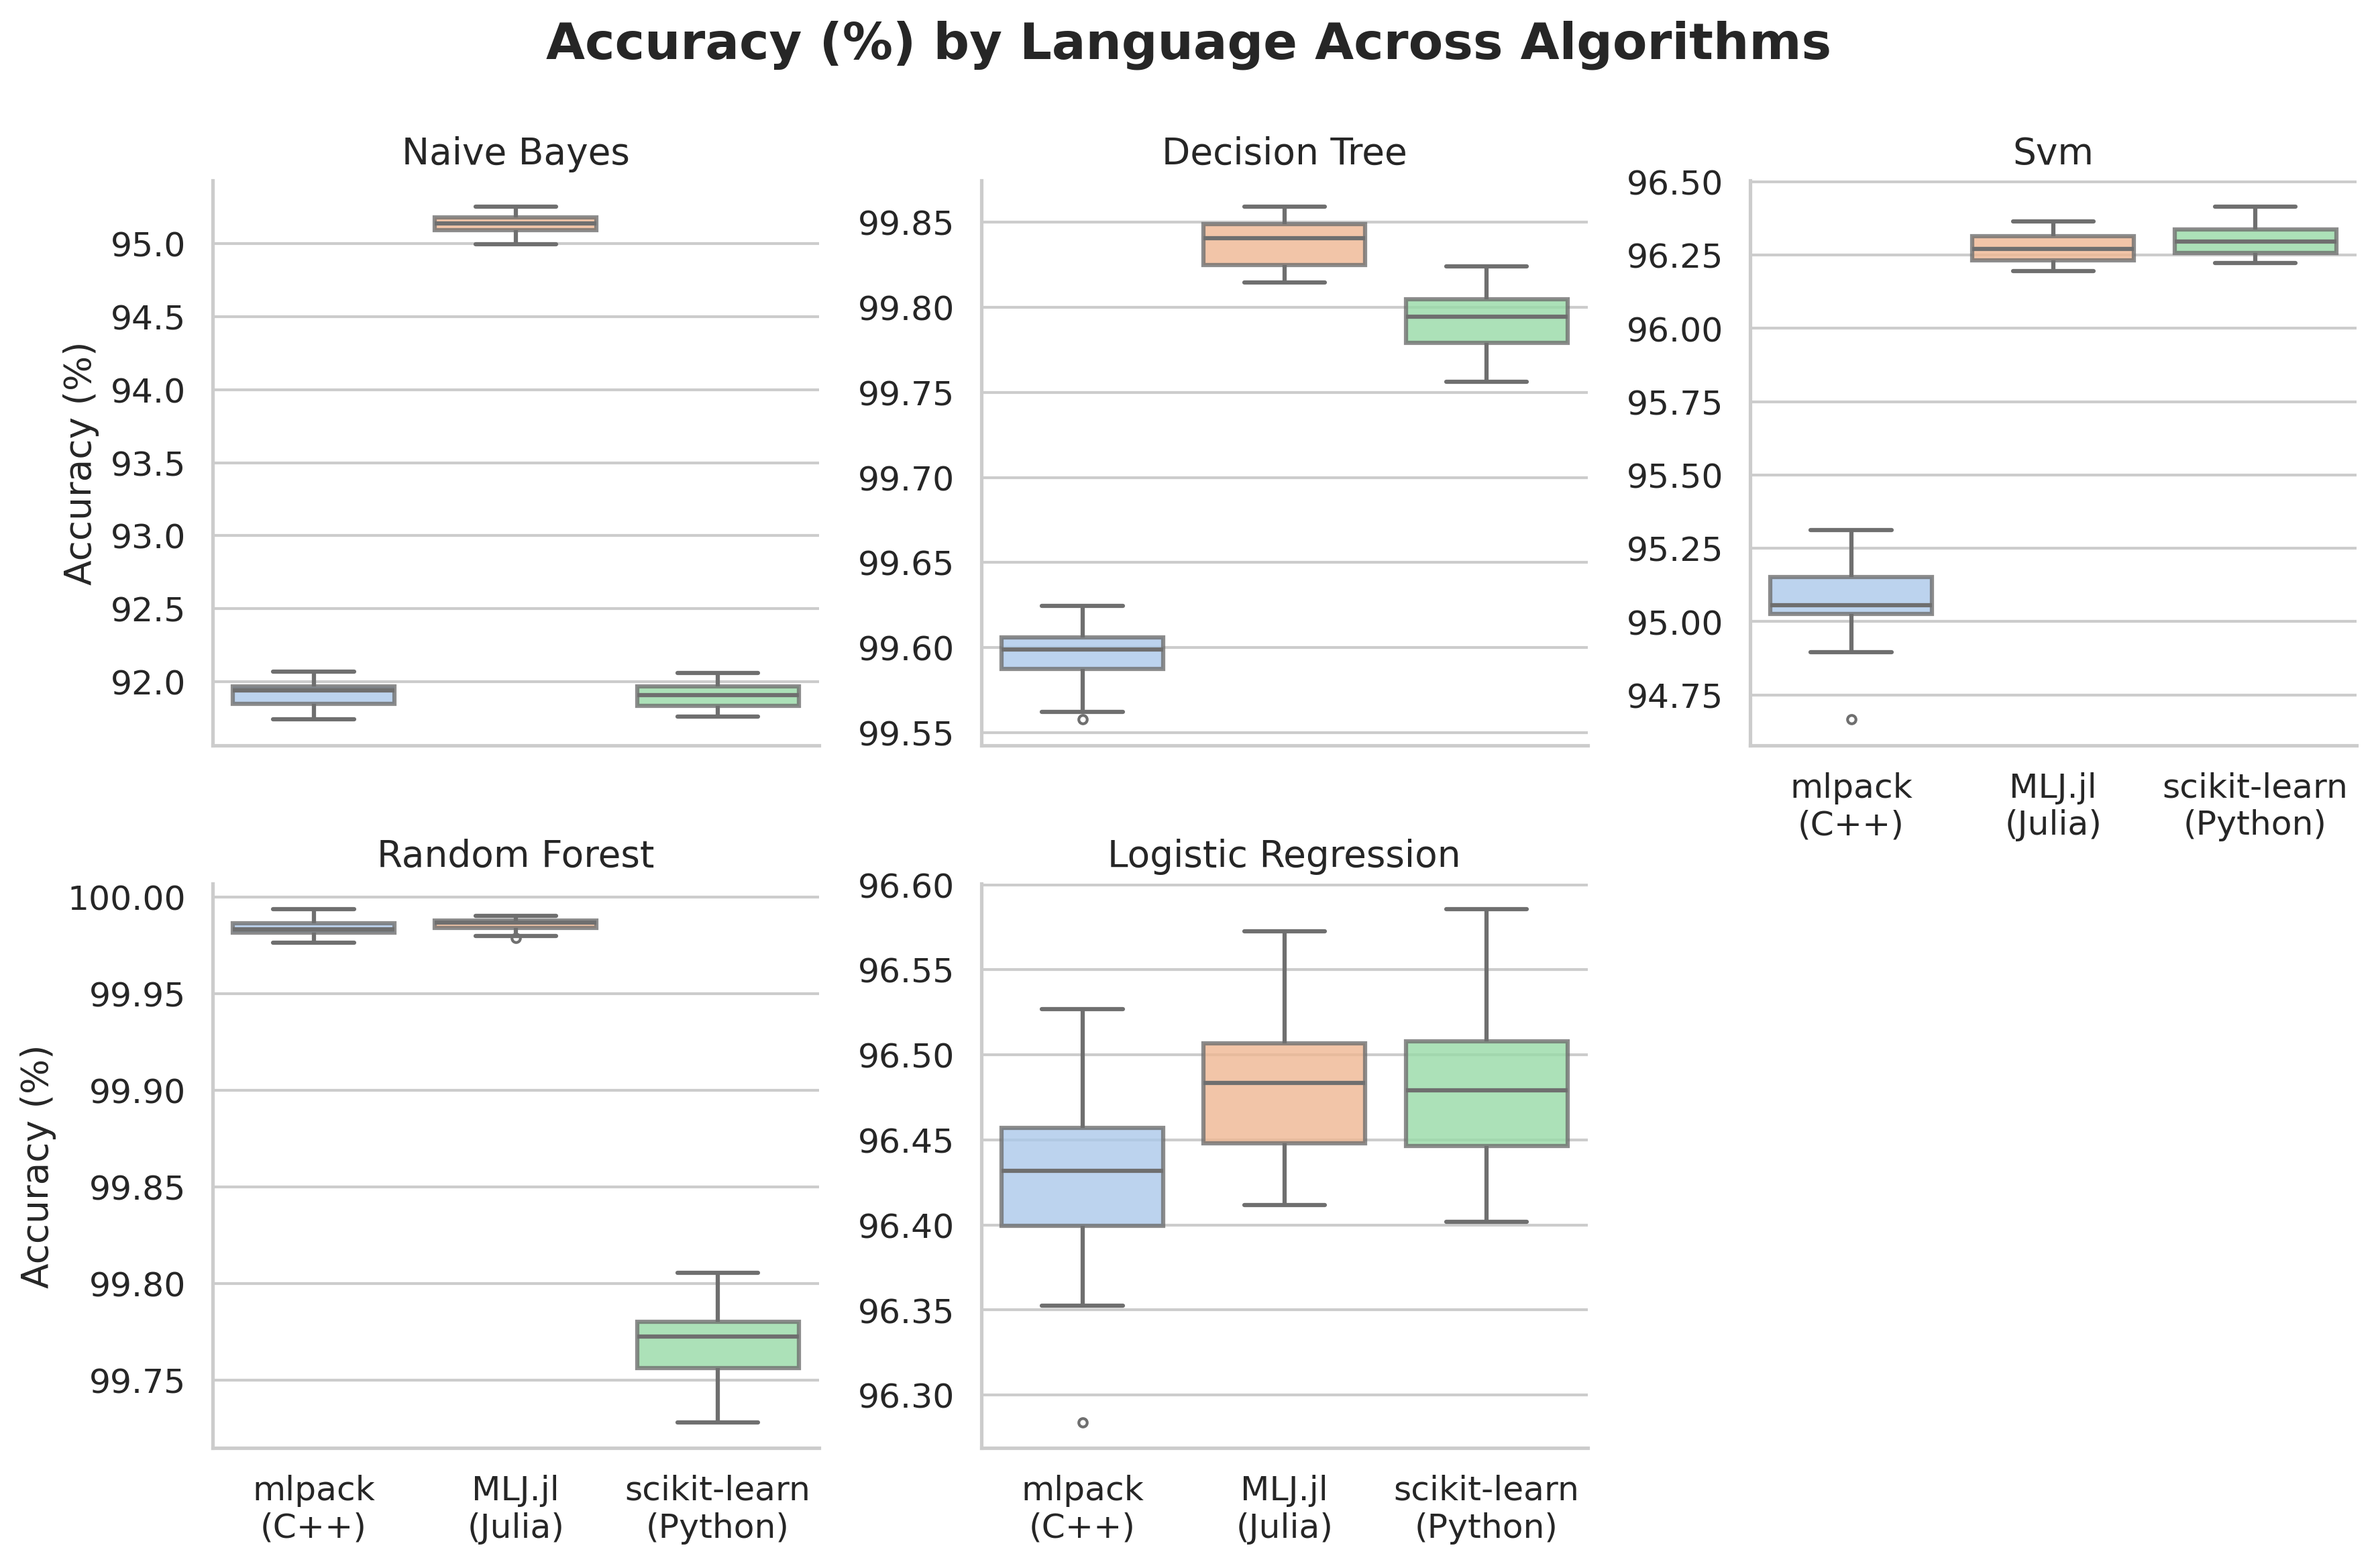
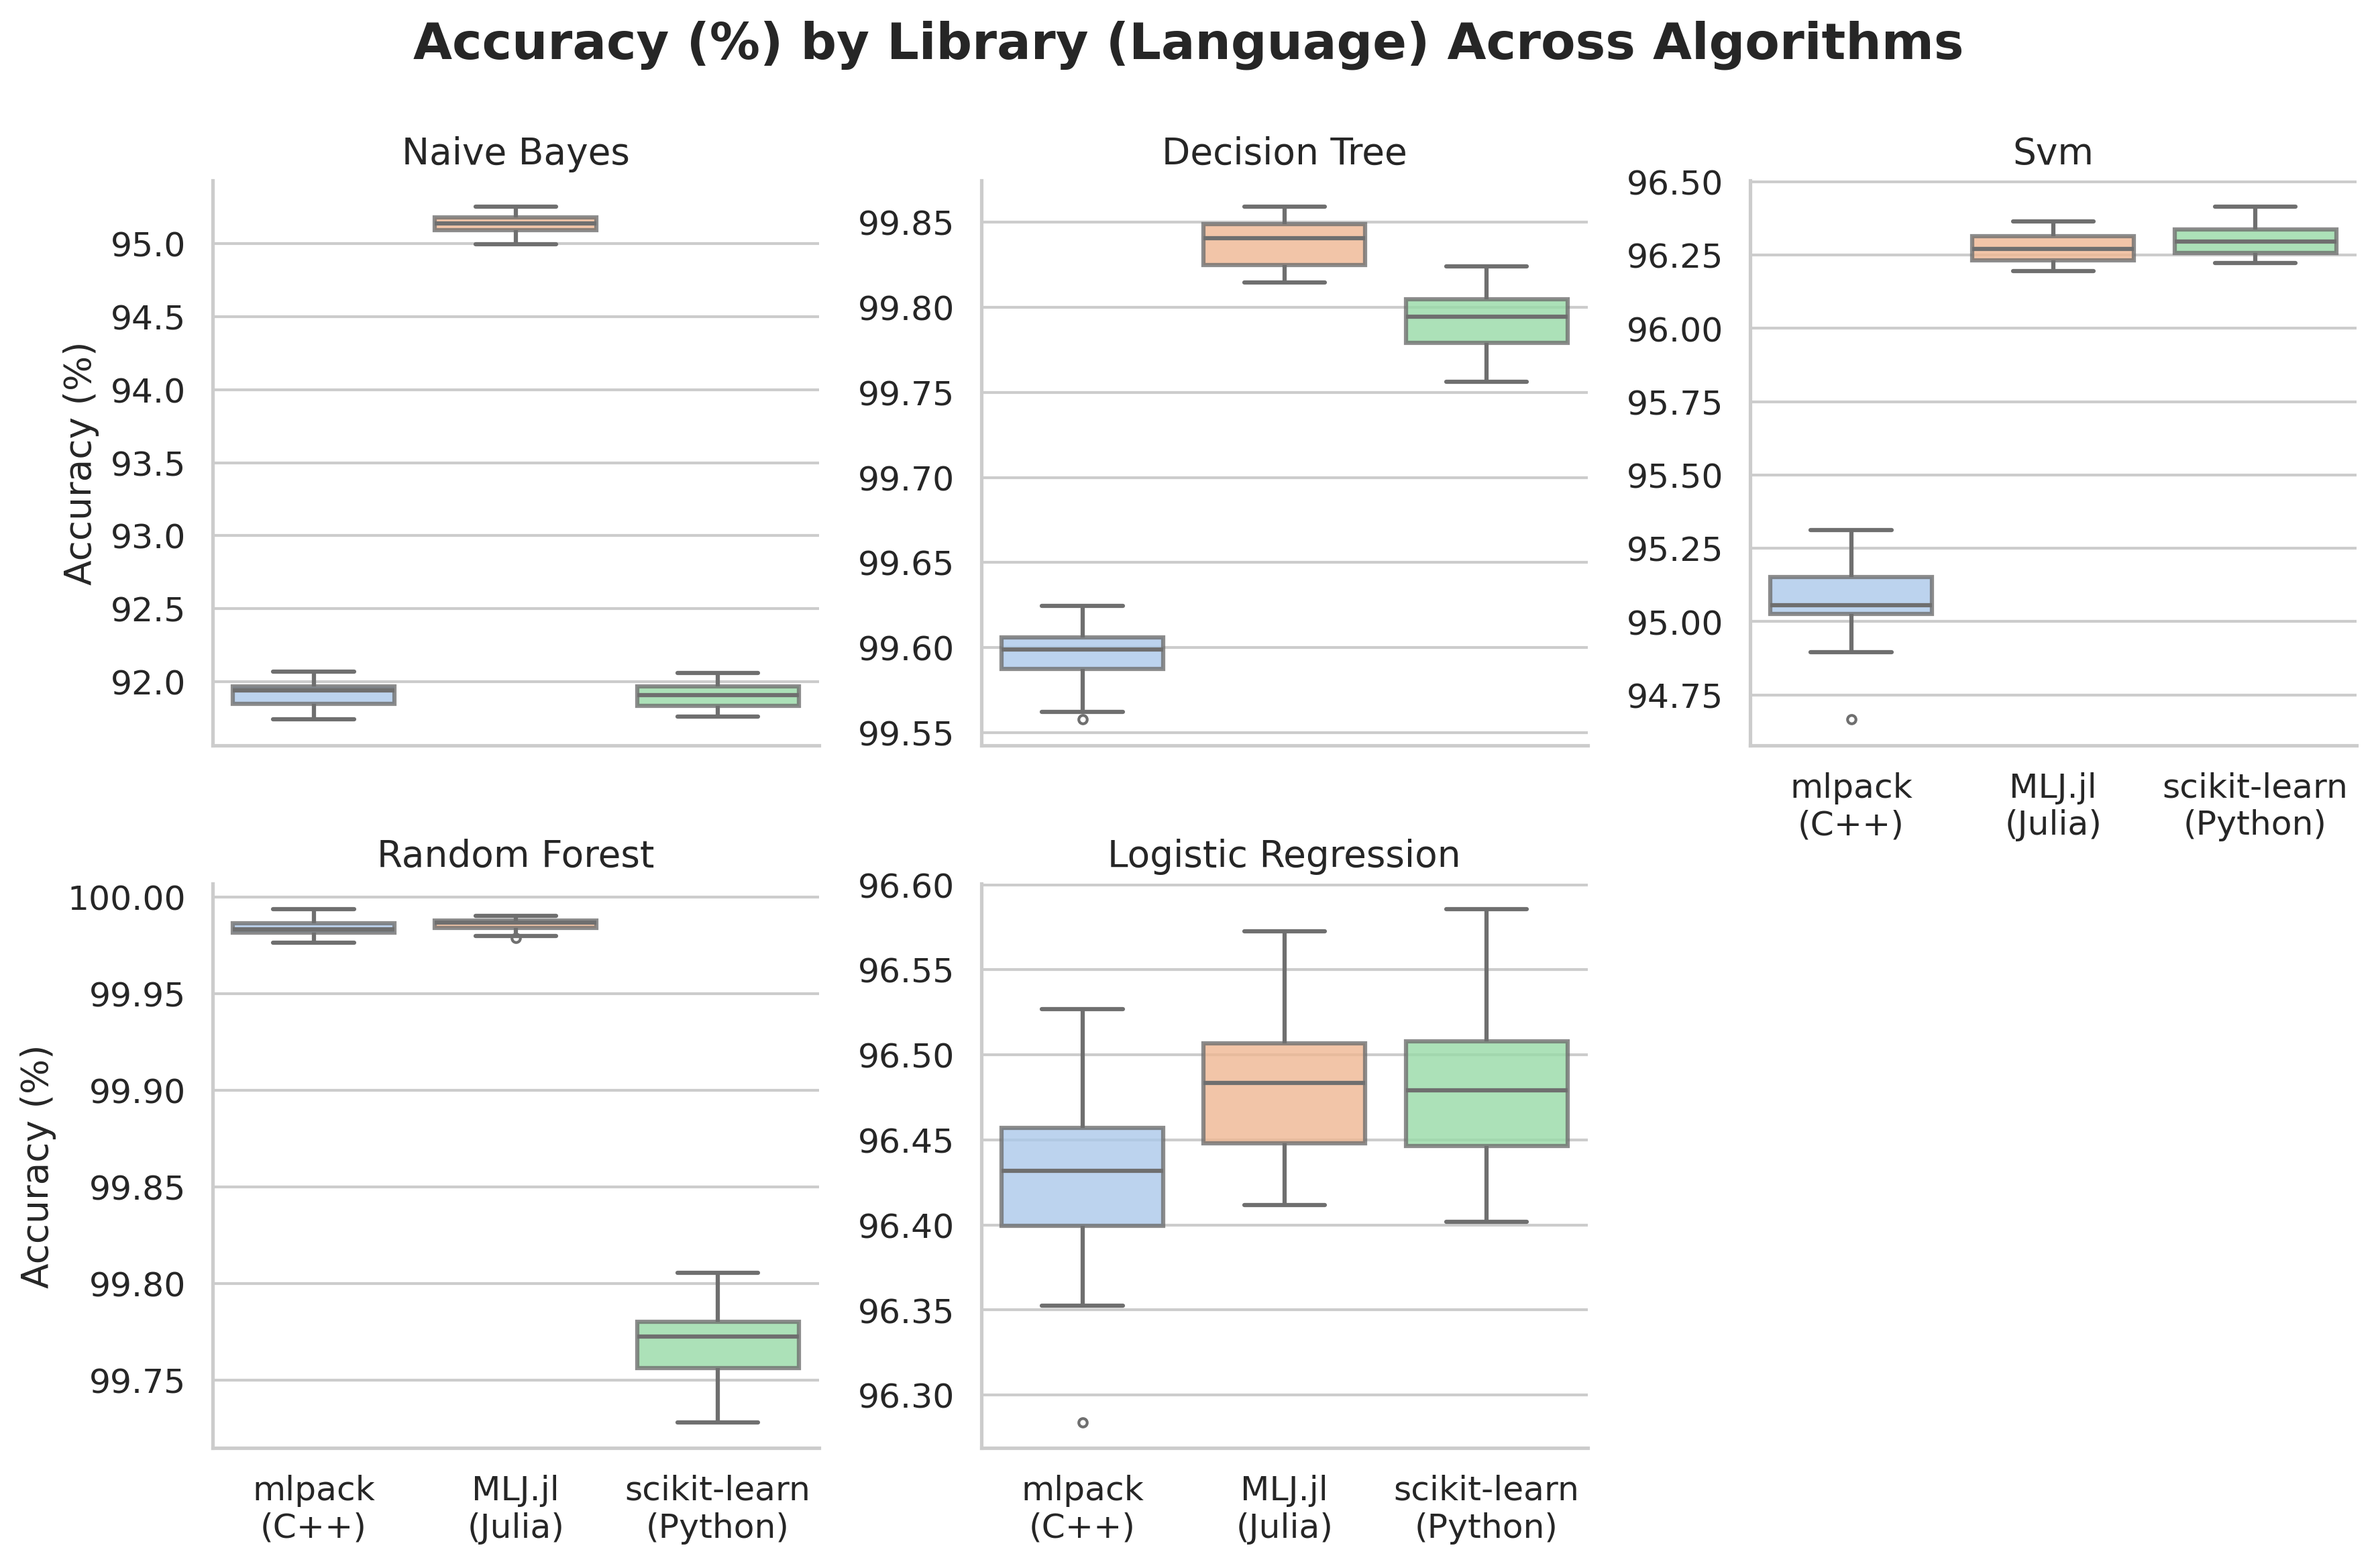
Updated plots

Changed region(s): [[0.1553, 0.0, 0.8385, 0.0618]]

diff --git a/data_analysis/rq1_plots.py b/data_analysis/rq1_plots.py
@@ -51,7 +51,7 @@ for metric in metrics:
     g.set_xticklabels(["mlpack\n(C++)", "MLJ.jl\n(Julia)", "scikit-learn\n(Python)"])
 
 
-    g.fig.suptitle(f"{metric_labels[metric]} by Language Across Algorithms", fontsize=18, fontweight="bold")
+    g.fig.suptitle(f"{metric_labels[metric]} by Library (Language) Across Algorithms", fontsize=18, fontweight="bold")
     g.fig.subplots_adjust(top=0.88)
  # Save to file
     filename = f"plots/rq1/{metric}_by_language.png"
